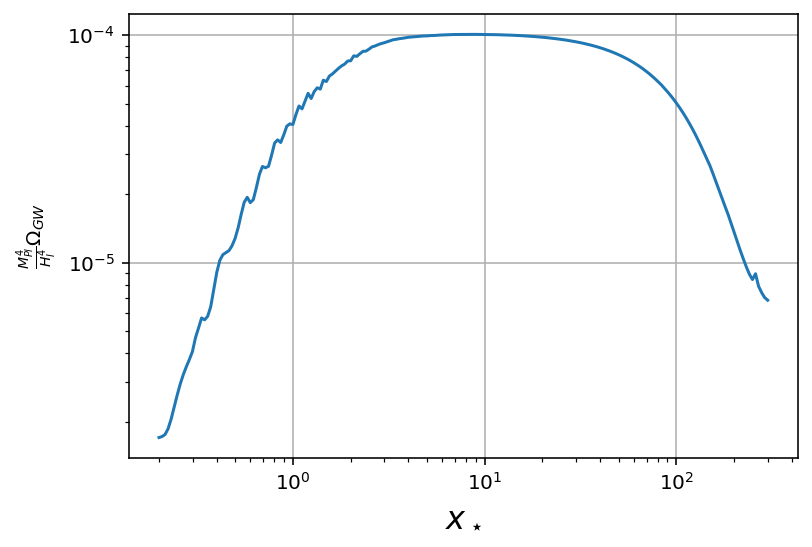
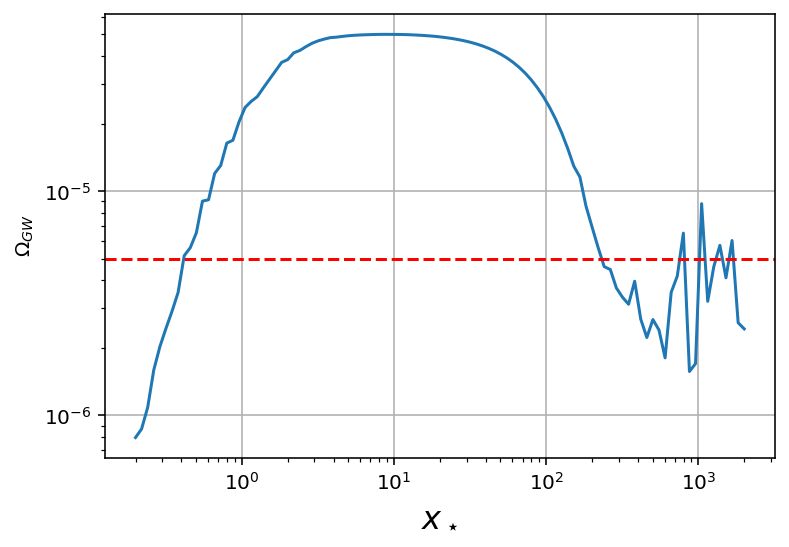
update

diff --git a/JaxIntegration.py b/JaxIntegration.py
@@ -153,13 +153,14 @@ plt.show()
 start = time.time()
 
 xsin = 0.2
-xsfin = 300
+xsfin = 1000
 xsnum = 200
 
 xt = xsin * (xsfin/xsin) ** ((jnp.arange(xsnum+1)) / xsnum)
 
+
 tin = 0.01
-tfin = 300
+tfin = 100
 tnum=15
 
 tt=tin*(tfin/tin)**((jnp.arange(tnum+1))/tnum)
@@ -186,12 +187,6 @@ def OmegIntegrand(t, s, xs):
     res = IT(50, u, v, xs)
     # res2 = kk(i,j)*res*tt[i]
     return res
-# def OmegIntegrand(i, j, m):
-#     u = (tt[i]+st[j]+1)/2
-#     v = (tt[i]-st[j]+1)/2
-#     res = IT(50, u, v, xt[m])
-#     # res2 = kk(i,j)*res*tt[i]
-#     return res
 
 @jit
 def OmegGW(m,i,j):
@@ -230,38 +225,27 @@ mins = (end-start)/60
 print(mins, "Minutes")
 
 #Last time with 7000 in integrations and 200 x vals it took 8 mins
+
+
 #%%
+
 plt.loglog(xt, hope)
+# plt.axline((x1,y1),(x2,y2), color = 'r')
 plt.xlabel(r"$x_\star$", fontsize = 16)
-plt.ylabel(r"$\frac{M^4_{Pl}}{H^4_I}\Omega_{GW}$")
+# plt.ylabel(r"$\frac{M^4_{Pl}}{H^4_I}\Omega_{GW}$")
+plt.ylabel(r"$\Omega_{GW}$")
+plt.axhline(y=5e-6, color='r', linestyle='--', label="y = 0.5")
 # plt.title("method 1")
 # # plt.ylim(1e-5, 3e-4)
 plt.grid(True)
-plt.savefig('/Users/alisha/Documents/Vec_DM/JaxOmegGW.png', bbox_inches='tight')
+# plt.savefig('/Users/alisha/Documents/Vec_DM/JaxOmegGW.png', bbox_inches='tight')
 plt.show()
 
+
 #%%
-#Test the kk function
-iind = jnp.arange(tnum + 1)
-jind = jnp.arange(snum + 1)
-grid = jnp.array(jnp.meshgrid(iind, jind)).T.reshape(-1,2)
-igrid = grid[:,0]
-jgrid = grid[:,1]
-testkk = vmap(kk)(igrid,jgrid)
 
+def func(x):
+    return 1e-5*x**2.5
 
-# test = vmap(compute_sum)(m)
-#%%
-#Test the omeg integrand funciton
-iind = jnp.arange(tnum + 1)
-jind = jnp.arange(snum + 1)
-grid = jnp.array(jnp.meshgrid(iind, jind, m)).T.reshape(-1,3)
-
-igrid = grid[:,0]
-jgrid = grid[:,1]
-mgrid = grid[:,2]
-testOI = vmap(OmegIntegrand)(igrid, jgrid, mgrid)
-# u = (tt+st+1)/2
-# v = (tt-st+1)/2
-# y = jnp.ones(len(u))*50
-# testIT = vmap(IT)(y, u, v, xt)
+x1, x2 = 0.15, 0.7
+y1, y2 = func(x1), func(x2)
